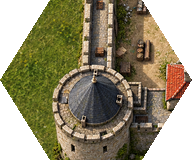
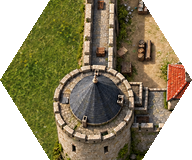
feat(terrain): HQ entry street as wide as the road, snow in winter
The HQ's entrance street was 18 world px wide against the road's 22, so
the gate blend narrowed it abruptly at the port, and in winter it stayed
dark asphalt with a white centre line.

- art/terrain/hq: hq-summer-v3 is a layout edit of v2 with the entrance
  road and bridge deck widened to 120 source px (22-23 world px from the
  port to the bridge, 24-25 on the deck); hq-winter-v3 is its season edit
  with a packed-snow road and deck, no painted lines.
- art/pipeline/compound-hq-v3.json: the new masters, shift re-measured to
  -0.25 world px (street centre within 0.1 of the port).
- The HQ tiles are re-cut (runtime IDs unchanged); TestGenerateCompoundTiles
  reads the v3 manifest.

Claude-Session: https://claude.ai/code/session_01GYYpxSaZdbX1BuoopUdKHR

Changed region(s): [[0.25, 0.0, 1.0, 1.0], [0.5, 0.9688, 0.5312, 1.0]]

diff --git a/tools/art-review/compound_generate_test.go b/tools/art-review/compound_generate_test.go
@@ -33,7 +33,7 @@ func TestGenerateCompoundTiles(t *testing.T) {
 		at[campaignExportKey(e.ID, e.Density)] = i
 	}
 	replaced := 0
-	for _, manifest := range []string{"compound-hq-v2.json", "compound-depot-v3.json", "compound-factory-v3.json", "compound-factory-summer-v1.json"} {
+	for _, manifest := range []string{"compound-hq-v3.json", "compound-depot-v3.json", "compound-factory-v3.json", "compound-factory-summer-v1.json"} {
 		in, err := loadCompoundInputs(filepath.Join(root, "art/pipeline", manifest))
 		if err != nil {
 			t.Fatal(err)

diff --git a/art/terrain/hq/prompt.md b/art/terrain/hq/prompt.md
@@ -4,7 +4,7 @@ title: Headquarters
 kind: terrain
 status: candidate
 runtime_ids: hqC, hqC_w, hqN, hqN_w, hqNE, hqNE_w, hqNW, hqNW_w, hqS, hqS_w, hqSE, hqSE_w, hqSW, hqSW_w
-masters: hq-summer-v2.png, hq-winter-v2.png, hq-summer-v1.png, hq-winter-v1.png
+masters: hq-summer-v3.png, hq-winter-v3.png, hq-summer-v2.png, hq-winter-v2.png, hq-summer-v1.png, hq-winter-v1.png
 ---
 
 ## Look
@@ -30,25 +30,65 @@ Everything stays inside the seven-hex rosette outline (238x240 world pixels); ou
 | cell SW | hqSW, hqSW_w | Slice of the fortress scene at the SW cell of the rosette. |
 | cell NW | hqNW, hqNW_w | Slice of the fortress scene at the NW cell of the rosette. |
 | cell C | hqC, hqC_w | Slice of the fortress scene at the C cell of the rosette (inner hall). |
-| winter | hqC_w, hqN_w, hqNE_w, hqNW_w, hqS_w, hqSE_w, hqSW_w | Same scene with patchy snow on roofs, walls and courtyard; road stays open grey. |
+| winter | hqC_w, hqN_w, hqNE_w, hqNW_w, hqS_w, hqSE_w, hqSW_w | Same scene with patchy snow on roofs, walls and courtyard; the entrance road and bridge deck are packed snow with ruts like the winter road tile, without painted lines. |
 
 ## Edges & joins
 The scene is sliced into seven hex crops with shared placements, so pieces join exactly; the north
 road meets the regular road tile at the north port.
 
 ## Post
-Selected sources are the native 1254x1254 `hq-summer-v2.png` and `hq-winter-v2.png`, generated with built-in
-imagegen and true alpha. The summer prompt requests four round drum towers with low slate roofs,
-red terracotta north gate and south inner hall, a textured dirt courtyard, narrow northern moat and
-bridge, and a centred grey entrance road. PULSE is the layout/style reference; `ground-crater-summer-v1.png`
-is the material-detail reference. The winter edit requests only patchy settled snow and dormant
-vegetation, preserving every building, road, prop and silhouette. The current candidate has visible
-short wall faces; the requested camera remains nadir.
+Selected sources are the native 1254x1254 `hq-summer-v3.png` and `hq-winter-v3.png`, generated with built-in
+imagegen and true alpha. They are layout edits of `hq-summer-v2.png` (four round drum towers with low slate
+roofs, red terracotta north gate and south inner hall, a textured dirt courtyard, narrow northern moat and
+bridge; PULSE was the layout/style reference, `ground-crater-summer-v1.png` the material-detail reference):
+the entrance road and the bridge deck are as wide as the road tile (22-23 world px), and in winter they
+carry packed snow with ruts instead of asphalt with white lines. The candidate has visible short wall
+faces; the requested camera remains nadir.
 
-`art-review -compound art/pipeline/compound-hq-v2.json` places the summer and winter scenes on the seasonal
+`art-review -compound art/pipeline/compound-hq-v3.json` places the summer and winter scenes on the seasonal
 meadow and slices the seven cells; both seasons share exact placement. The scene fills the 238x240 box,
-cropping the excess, and `shift` moves it 0.77 world px west so the north street lies on the port; its first
-10 world px blend into the season's road tile (`entry_road`). Exports are fixed Lanczos3 at 2x (192x160) and 4x (384x320) with complementary half-open hex ownership; promote into `assets/terrain/<family>/` and re-index.
+cropping the excess, and `shift` moves it 0.25 world px west so the north street lies on the port (centre within
+0.1 world px); its first 10 world px blend into the season's road tile (`entry_road`). Exports are fixed Lanczos3 at 2x (192x160) and 4x (384x320) with complementary half-open hex ownership; promote into `assets/terrain/<family>/` and re-index.
+
+### Wide entrance road summer (2026-10-24)
+
+`hq-summer-v3.png` (`exec-aa88c376`, native 1254x1254 RGBA, unchanged) is `hq-summer-v2.png` with the
+entrance road widened from 94 to 120 px (18 to 23 world px) and the bridge parapets moved out so the deck
+is as wide; towers, walls, gatehouse and courtyard keep their places (alpha IoU 0.979 outside the gate
+area). Cut: street 22-23.3 world px from the port to the bridge, 24-25 on the deck, narrowing only at the
+gatehouse arch; asphalt mean within ΔE 4.2 of the road tile. Two earlier tries painted the road 27.5 and
+26.3 world px wide. Selected. Attached: image 1 `hq-summer-v2.png`. The prompt was:
+
+```text
+Precise layout edit ONLY of image 1, a walled fortress seen from straight above on a 1254x1254 RGBA canvas (transparent outside the fortress). Widen the north entrance road and its moat bridge slightly; change nothing else.
+Now: the grey asphalt road runs from the top edge (y 0) down to the bridge at about y 180. Including its thin pale edge lines it is 94 px wide (x 583 to 677), centred on x 630. The cobbled bridge deck between the two pale stone parapets is also 94 px wide (x 582 to 676); the parapets are about 22 px wide (west x 558-580, east x 678-700) and run from about y 175 to y 300, where the red-roofed gatehouse begins.
+Change: make the road exactly 106 px wide including its pale edge lines, from x 577 to x 683, still centred on x 630 - that is one twelfth of the canvas width and only 12 px wider than now (6 px more on each side). Two previous attempts painted the road 144 px and 137 px wide, far too wide: the road must stay narrow, at most 110 px. Its pale edge lines stay right where the green verge begins. The road stays parallel-sided from the top edge all the way down to the bridge, with the same grey asphalt, the same white dashed centre line on x 630 and the same thin pale edge lines along both sides. Move both bridge parapets outward by 6 px (west parapet x 552-574, east parapet x 686-708) so the cobbled bridge deck is also 106 px wide and joins the road without a step; the deck stays cobbled up to the gatehouse arch. The grass verges, rocks and moat banks beside the road and the bridge give up the same 6 px on each side.
+Keep everything else exactly as it is: canvas size, outline and transparent area, the four round towers, the curtain walls, the red gatehouse and its arch, the moat water, the courtyard and its props, the south hall, the bushes; same light from the upper left, same palette, same strict nadir view.
+Avoid: a road wider than 110 px, moving or resizing any tower, wall or building, a wider gatehouse, a different road colour, a road that narrows before the bridge, new objects, perspective, a ground plate, a halo, a checkerboard.
+
+Image 1 is the installed summer fortress (hq-summer-v2): edit it as described and preserve every other outline and position.
+```
+
+### Wide entrance road winter (2026-10-24)
+
+`hq-winter-v3.png` (`exec-0b20ef0c`, native 1254x1254 RGBA, unchanged) is the season edit of
+`hq-summer-v3.png`: snow as on `hq-winter-v2.png`, and the entrance road and bridge deck are packed grey
+snow with faint ruts and snow rims, without painted lines. Cut (street mask from the summer tile): mean
+L\* 58.8, C 1.3, ΔE 5.5 from the winter road surface at the port (L\* 53.4); no paint-white pixels in the
+middle 16 world px, only the snow rims within 2 world px of the edges. Selected. Attached: image 1
+`hq-summer-v3.png`, image 2 `hq-winter-v2.png` (snow look), image 3 `tile/road36_w` at 4x over snow (road
+surface). The prompt was:
+
+```text
+Seasonal edit ONLY of image 1, a walled fortress seen from straight above on a 1254x1254 RGBA canvas (transparent outside the fortress): change the season to winter and nothing else. Keep the canvas size, the outline, the transparent area and every object exactly where it is: the north road, the moat bridge and its two parapets, the moat, the four round towers, the curtain walls and wall walks, the red gatehouse, the courtyard props, the well, the south hall and the bushes. Preserve every outline and position.
+Winter, as on image 2 (the same fortress in its current winter version): patchy settled snow on the courtyard, the wall walks and the tower tops, a light snow crust on the roofs, parapets, crates and carts, frost on the stones; the moat stays dark open water with snow on its banks and boulders; the meadow tufts become bare frosted brown twigs.
+The north entrance road becomes a packed-snow winter road like image 3: trodden grey snow and slush, cool neutral grey, mean about RGB 132,130,132 (lit grains up to 160, darker slush down to 100), with two slightly darker wheel ruts running straight along it and a soft rim of white snow along both edges. It has NO painted markings at all: no white dashed centre line, no white or pale edge lines, no black asphalt. Keep the road exactly where it is and exactly as wide as in image 1: 120 px wide, from x 568 to x 688, centred on x 628, parallel-sided from the top edge down to the bridge. The cobbled bridge deck between the parapets (x 565 to 688, y 180 to 310) gets the same trodden grey snow and slush with the ruts running on, no white markings, the cobbles only faintly showing through.
+Snow white is a soft neutral grey-white with cool grey shading, as on image 2.
+Outside the fortress outline: alpha zero, no ground plate, no halo, no checkerboard.
+Avoid: moving, resizing or adding anything, a narrower or wider road, white lines or dashes on the road, dark asphalt, blue snow, ice on the road, snow outside the alpha footprint, perspective.
+
+Image 1 is the selected summer fortress: change season only, preserve every outline and position. Image 2 is the installed winter fortress: take only its snow colour, frost and bare-twig look; its road still shows summer asphalt with white dashes, which must NOT be copied. Image 3 is the winter road tile of the map over snow: take only its road surface (packed grey snow, slush ruts, soft snow edges) for the entrance road and bridge deck; do not copy its width or position.
+```
 
 ## Avoid
 - visible tiling or repeated rounded "pillow" patterns
